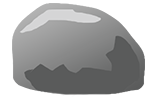
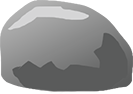
added assets

Changed region(s): [[0.0, 0.0, 1.0, 0.9787]]

diff --git a/src/level3.js b/src/level3.js
@@ -1,9 +1,10 @@
 import nextLevelArrow from "./assets/right-arrow.png";
+import background_level3 from "./assets/background_level3.jpg";
 import julieHead from "./assets/julie.png";
-import cliff from "./assets/cliff.png";
-import palmTree from "./assets/palmtree.png";
+import palmTree from "./assets/tree.png";
 import axe from "./assets/axe.png";
-import stone from "./assets/stone.png";
+import stone from "./assets/stone_100.png";
+import stoneSmall from "./assets/stone20.png";
 import balloon from "./assets/balloon.png";
 import keyHint from "./assets/keyspng.png";
 
@@ -19,49 +20,46 @@ export default class Level3 extends Phaser.Scene {
     }
 
     preload() {
+        this.load.image('background_level3', background_level3);
         this.load.image('nextLevelArrow', nextLevelArrow);
         this.load.image('julie', julieHead);
-        this.load.image('cliff', cliff);
         this.load.image('axe', axe);
         this.load.image('stone', stone);
+        this.load.image('stoneSmall', stoneSmall);
         this.load.image('palmTree', palmTree);
         this.load.image('nextLevelArrow', nextLevelArrow);
         this.load.image('balloon', balloon);
         this.load.image('keyHint', keyHint);
-
     }
 
     create() {
-
         //todo show keyboard-hints
-        let Header = this.scene.get('Header');
-        Header.setLevelText("Level 3");
-        const graphics = this.add.graphics();
-        graphics.fillGradientStyle(0x00ffff, 0x00ff00, 0x0000ff, 0xffff00, 1);
-        graphics.fillRect(0, 50, 800, 650);
+        this.header = this.scene.get('Header');
+        this.header.setLevelText("Level 3");
+        this.header.setHintText("Hint: Use arrow keys to move character");
 
         this.physics.world.setBoundsCollision(false, false, true, true);
         this.cursors = this.input.keyboard.createCursorKeys();
 
-        const platforms = this.physics.add.staticGroup();
-        platforms.create(500, 350, 'cliff').setOrigin(0).refreshBody();
-        platforms.create(-60, 350, 'cliff').setOrigin(0).setFlipX(true).refreshBody();
+        this.add.image(0, 50, 'background_level3')
+            .setOrigin(0);
 
-        this.balloon = this.add.image(120, 330, 'balloon');
+        const platforms = this.physics.add.staticGroup();
+        platforms.create(500, 370,).setOrigin(0).setScale(10, 0).setVisible(false).refreshBody();
+        platforms.create(0, 370,).setOrigin(0).setScale(9, 0).setVisible(false).refreshBody();
+
+
+        this.add.image(120, 360, 'stoneSmall');
+        this.balloon = this.add.image(120, 320, 'balloon');
         this.axe = this.add.sprite(750, 330, 'axe')
             .setInteractive({useHandCursor: true});
-        this.keyhint = this.add.image(700, 80, 'keyHint')
-            .setOrigin(0)
-            .setScale(0.3);
         this.character = this.physics.add.sprite(this.startCoordinates.x, this.startCoordinates.y, 'julie')
             .setScale(0.2)
             .setGravityY(250)
             .setCollideWorldBounds(true);
-        this.tree = this.physics.add.sprite(490, 235, 'palmTree')
-            .setScale(0.9)
+        this.tree = this.physics.add.sprite(490, 245, 'palmTree')
             .setCollideWorldBounds(true);
-        this.stone = this.add.sprite(750, 330, 'stone')
-            .setScale(0.5)
+        this.stone = this.add.sprite(770, 330, 'stone')
             .setInteractive({useHandCursor: true})
             .on('pointerup', (pointer) => {
                 this.axe.on('pointerup', (pointer) => {
@@ -119,10 +117,10 @@ export default class Level3 extends Phaser.Scene {
         if (this.cursors) {
             if (this.cursors.left.isDown) {
                 this.character.setVelocityX(-160);
-                this.keyhint.destroy();
+                this.header.setHintText("");
             } else if (this.cursors.right.isDown) {
                 this.character.setVelocityX(160);
-                this.keyhint.destroy();
+                this.header.setHintText("");
             } else {
                 this.character.setVelocityX(0);
             }

diff --git a/src/header.js b/src/header.js
@@ -24,7 +24,10 @@ export default class Header extends Phaser.Scene {
             .setFontFamily('Arial')
             .setColor('#fff900')
             .setFontStyle('bold italic');
-
+        this.hintText = this.add.text(500, 15, "")
+            .setFontSize(16)
+            .setFontFamily('Arial')
+            .setColor('#aa4444');
 
         // this.scoreText = this.add.text(10, 10, "", {
         //     fontFamily: "Arial Black",
@@ -42,8 +45,11 @@ export default class Header extends Phaser.Scene {
 
     }
 
-    setLevelText(per) {
-        this.levelText.setText(per);
+    setLevelText(txt) {
+        this.levelText.setText(txt);
+    }
+   setHintText(txt) {
+        this.hintText.setText(txt);
     }
 
 

diff --git a/src/theEnd.js b/src/theEnd.js
@@ -1,5 +1,5 @@
 import Phaser from "phaser";
-import splash from "./assets/splash.jpg";
+import splashOld from "./assets/splash_old.png";
 
 export default class TheEnd extends Phaser.Scene {
 
@@ -10,13 +10,13 @@ export default class TheEnd extends Phaser.Scene {
     }
 
     preload() {
-        this.load.image('splash', splash);
+        this.load.image('splashOld', splashOld);
     }
 
     create() {
         let Header = this.scene.get('Header');
         Header.setLevelText("THE END");
-        this.add.image(0, 50, 'splash')
+        this.add.image(0, 50, 'splashOld')
             .setOrigin(0)
     }
 

diff --git a/src/index.js b/src/index.js
@@ -18,8 +18,13 @@ const config = {
         default: 'arcade',
         arcade: {
             gravity: {y: 0},
-            debug: false
-
+             //debug: true,
+            // debugShowBody: true,
+            // debugShowStaticBody: true,
+            // debugShowVelocity: true,
+            // debugVelocityColor: 0xffff00,
+            // debugBodyColor: 0x0000ff,
+            // debugStaticBodyColor: 0xffffff
         }
     },
     scene: [ Intro, Header, Level1, Level2, Level3,TheEnd]
